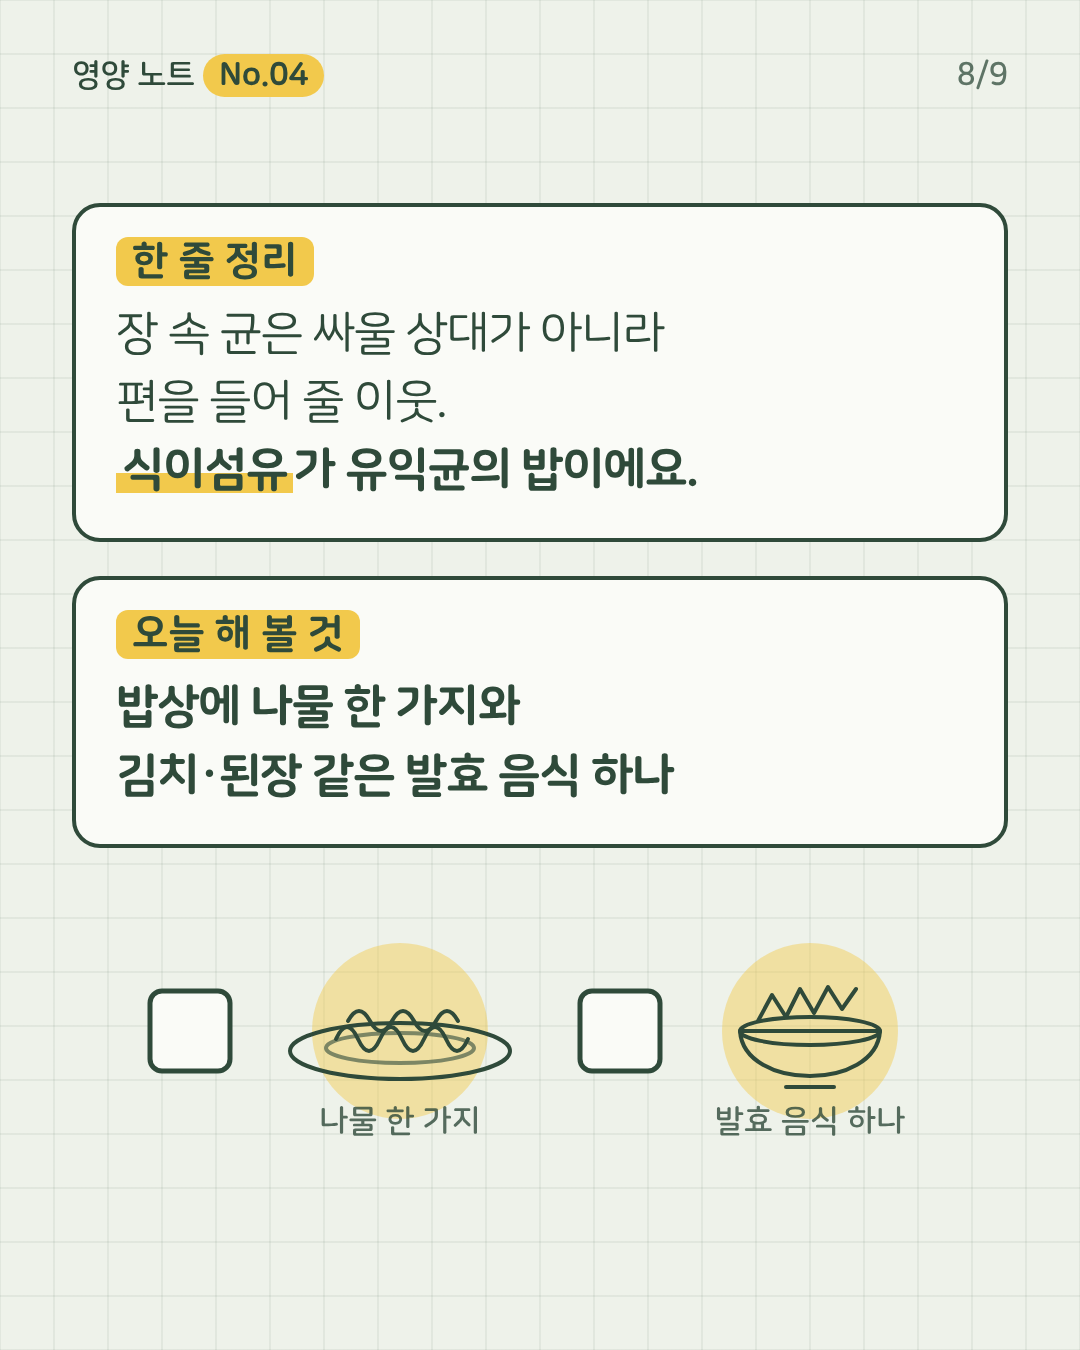
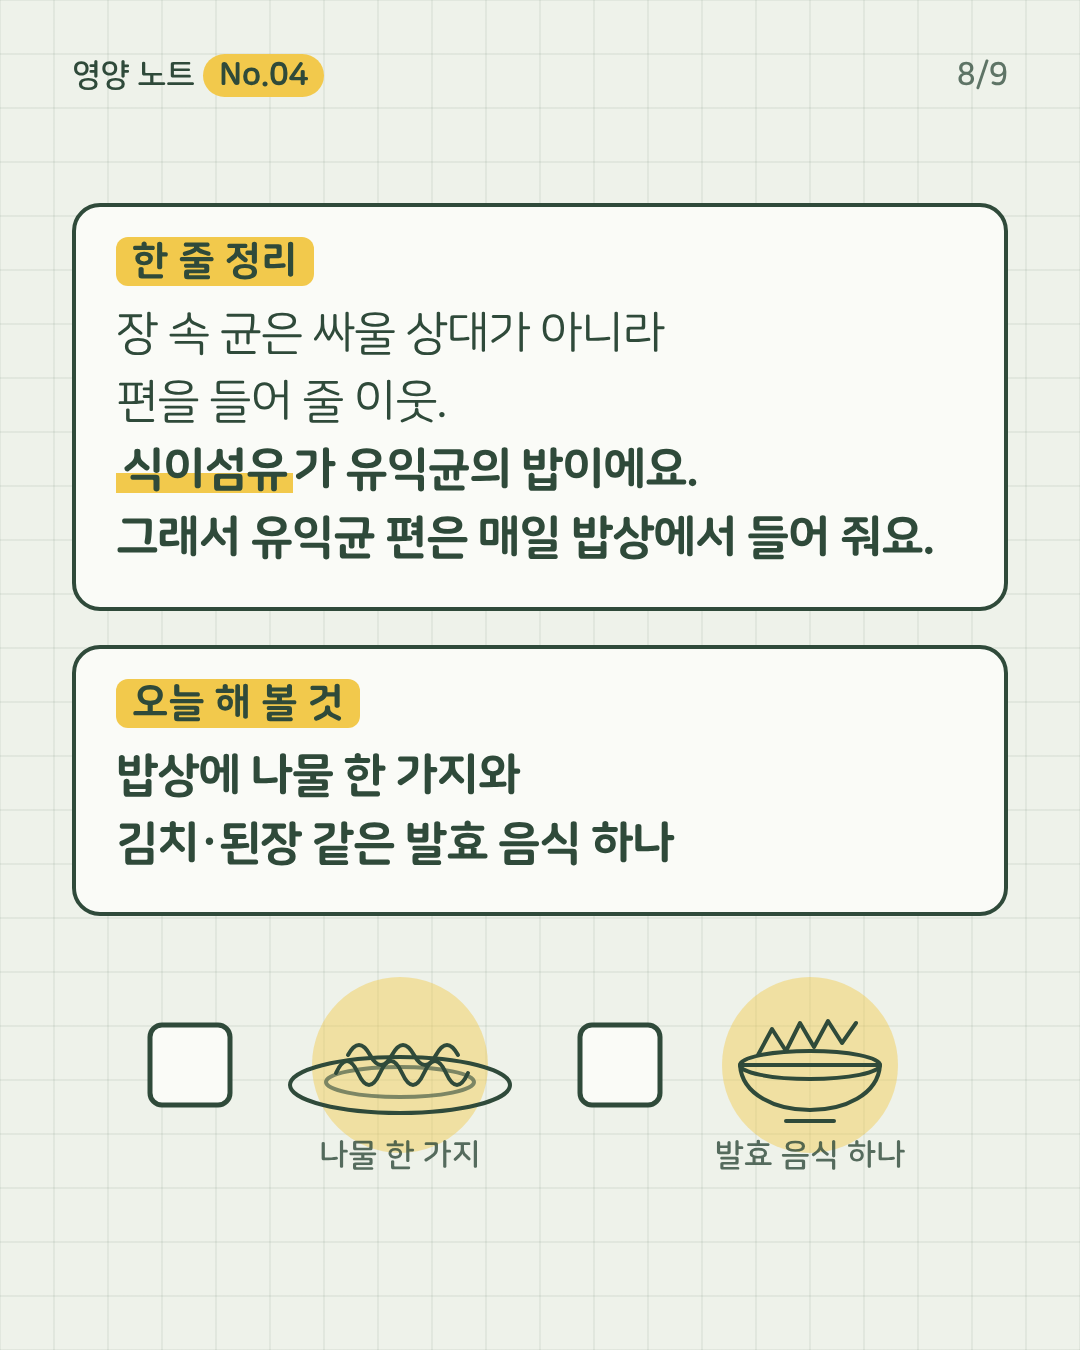
영양노트 No.04 맺음말 추가: 그래서 유익균 편은 매일 밥상에서 들어 줘요 (8장·글)
Claude-Session: https://claude.ai/code/session_01Ethqw5r7mmktrKzGmpSNVy

Changed region(s): [[0.0611, 0.3733, 0.9472, 0.8711], [0.1222, 0.7156, 0.2139, 0.84], [0.5194, 0.7156, 0.6111, 0.84]]

diff --git a/company/초안/영양노트/No04-카드/cards.html b/company/초안/영양노트/No04-카드/cards.html
@@ -402,7 +402,7 @@ svg .lb{fill:var(--ink);font-family:"NSR";font-weight:800}
   <div class="body">
     <div class="box" style="margin-top:14px">
       <span class="lab">한 줄 정리</span>
-      <p>장 속 균은 싸울 상대가 아니라<br>편을 들어 줄 이웃.<br><span class="hl b">식이섬유</span><span class="b">가 유익균의 밥이에요.</span></p>
+      <p>장 속 균은 싸울 상대가 아니라<br>편을 들어 줄 이웃.<br><span class="hl b">식이섬유</span><span class="b">가 유익균의 밥이에요.</span><br><span class="b">그래서 유익균 편은 매일 밥상에서 들어 줘요.</span></p>
     </div>
     <div class="box">
       <span class="lab">오늘 해 볼 것</span>

diff --git a/company/초안/영양노트/No04-원고.md b/company/초안/영양노트/No04-원고.md
@@ -139,6 +139,7 @@
 장 속 균은 싸울 상대가 아니라
 편을 들어 줄 이웃.
 식이섬유가 유익균의 밥이에요.
+그래서 유익균 편은 매일 밥상에서 들어 줘요.
 
 **오늘 해 볼 것**
 밥상에 나물 한 가지와
@@ -173,6 +174,7 @@ No.05 같은 밥, 다른 장 — 장 속 균은 지문처럼 달라요
 쉽게 셋으로 나눠 보면 도움을 주는 유익균, 탈을 내기 쉬운 유해균, 어느 편도 아닌 중간균이에요.
 중간균은 힘센 쪽을 따라간다고 해서, 균과 싸우기보다 유익균 편을 들어 주는 게 먼저예요.
 장 속 균은 식이섬유를 먹고 장 속을 약산성으로 만들고, No.03에서 본 뷰티르산과 비타민K 일부도 만들어요.
+그래서 유익균 편은 매일 밥상에서 들어 줘요.
 
 챙겨 볼 영양소: 프로바이오틱스 · 프락토올리고당 · 식이섬유 · 비타민K
 음식으로 먼저 챙겨 보세요.
